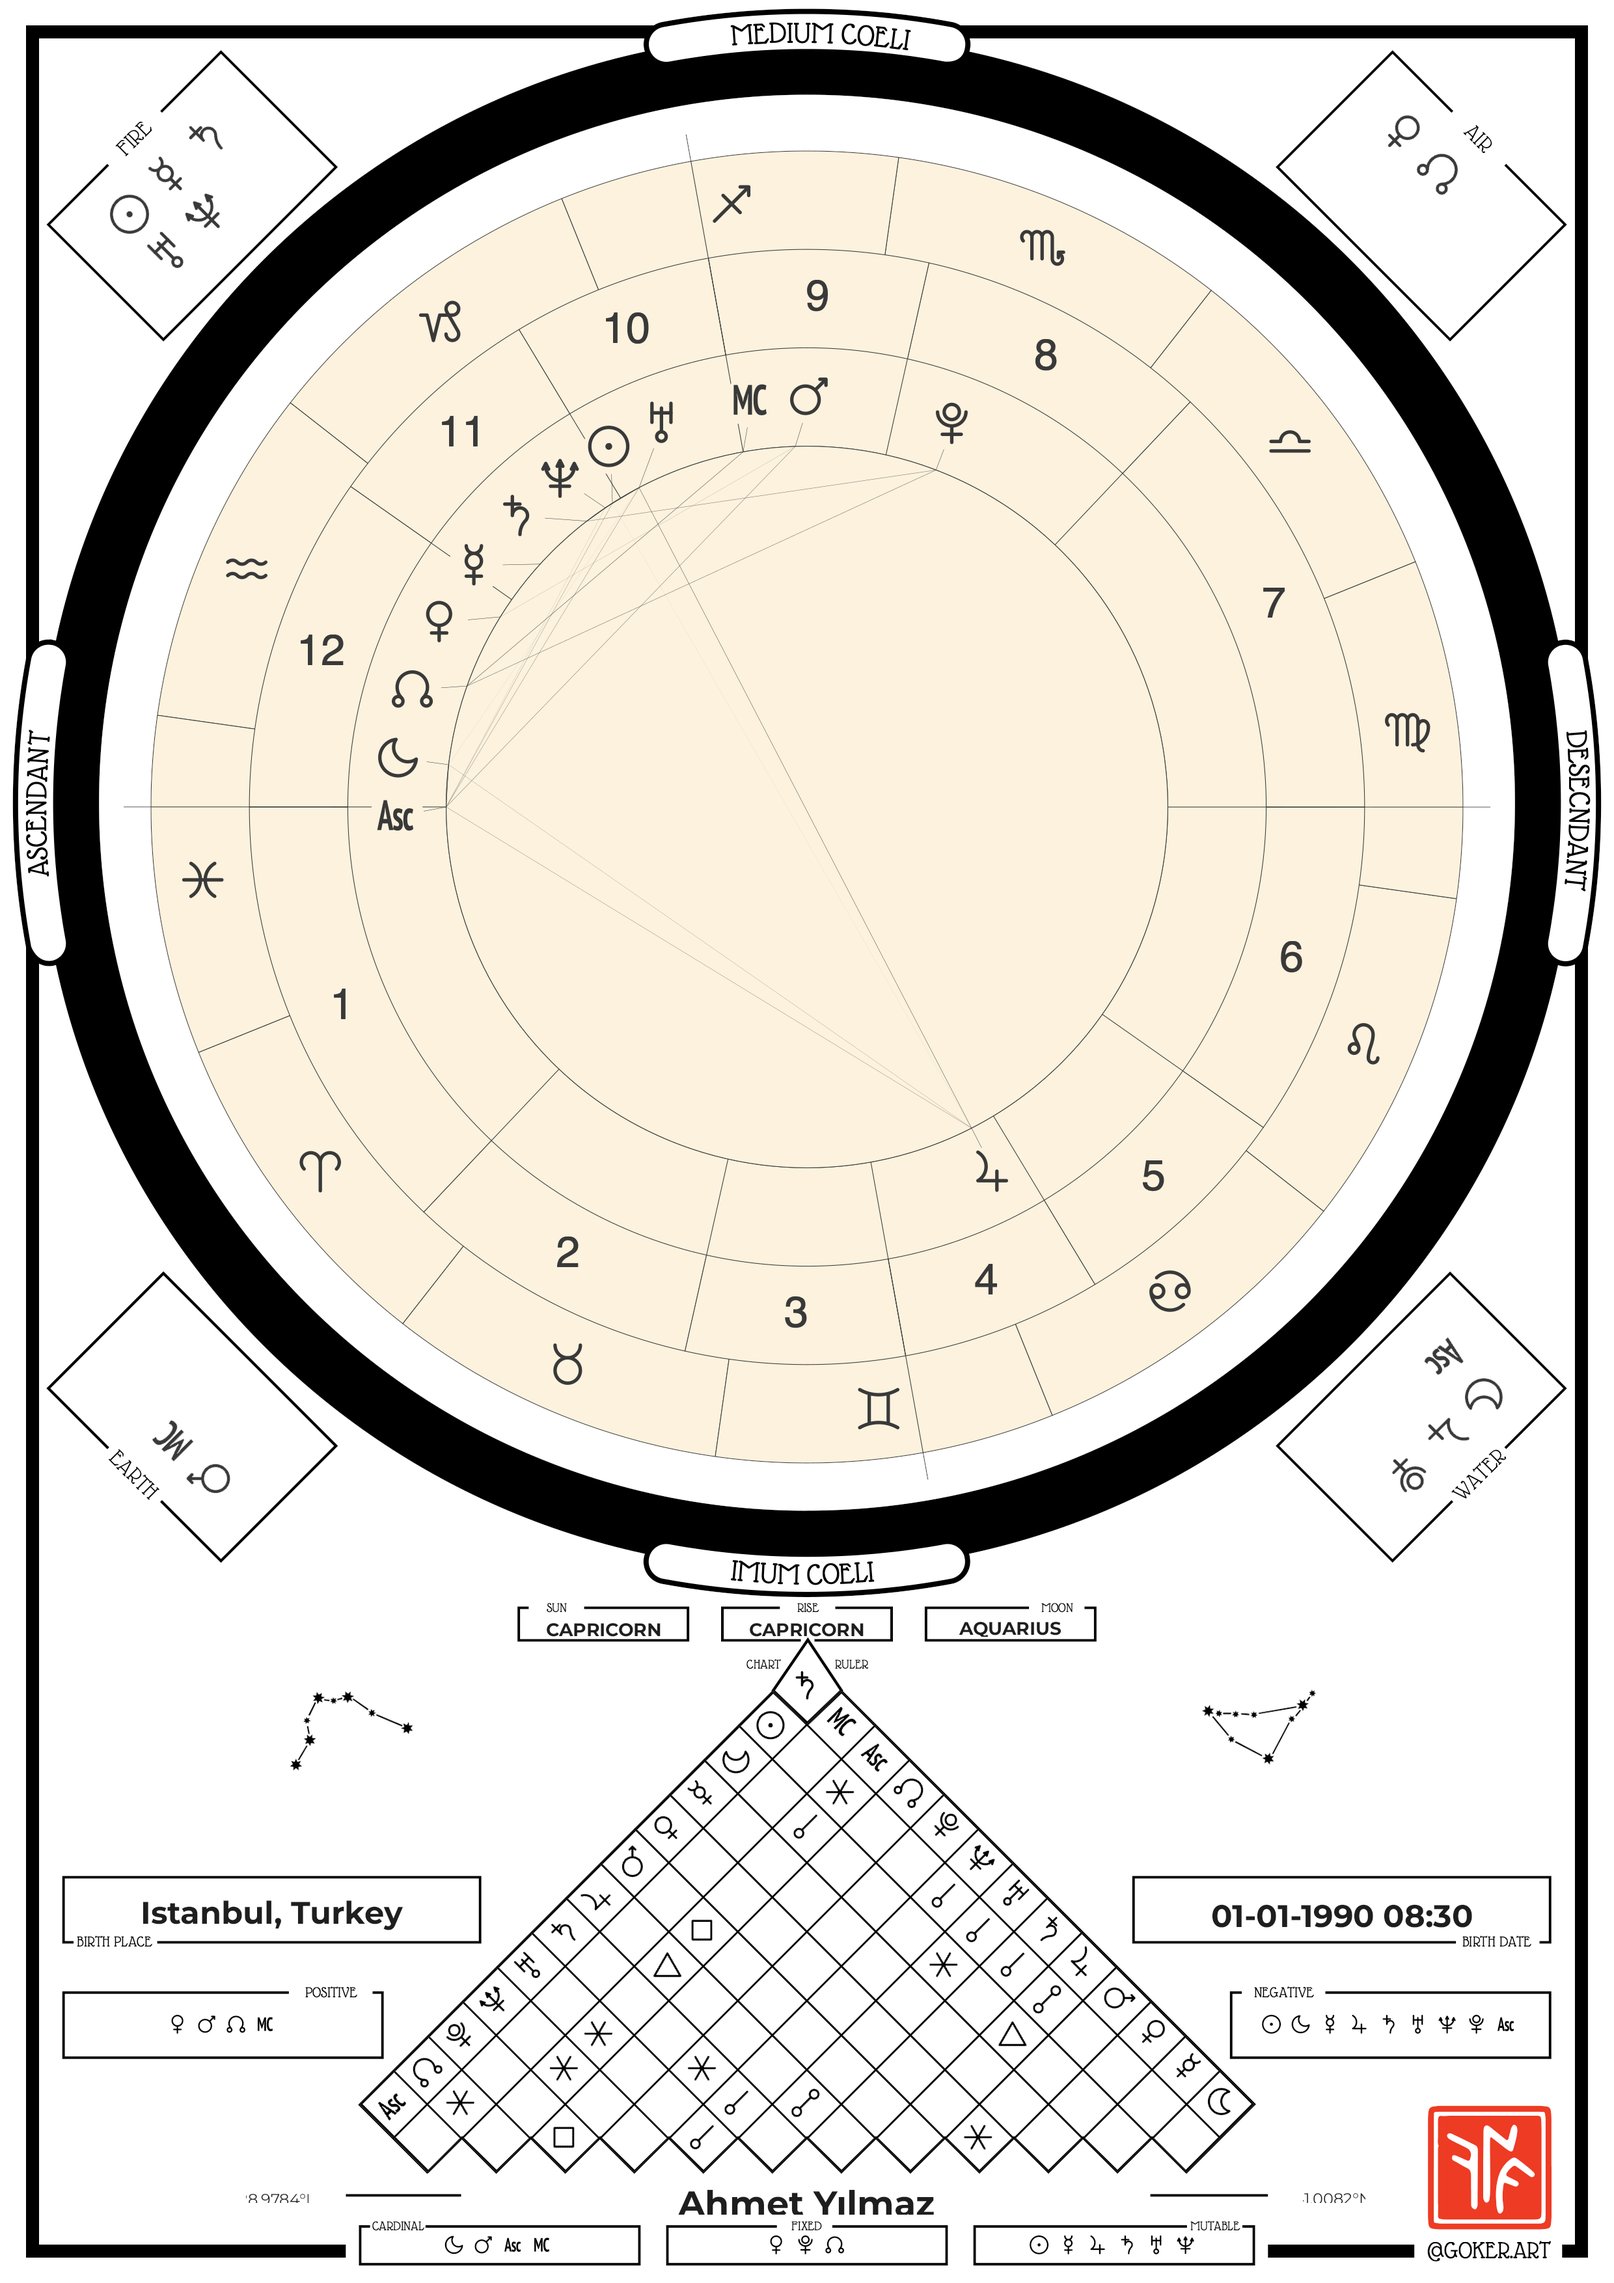
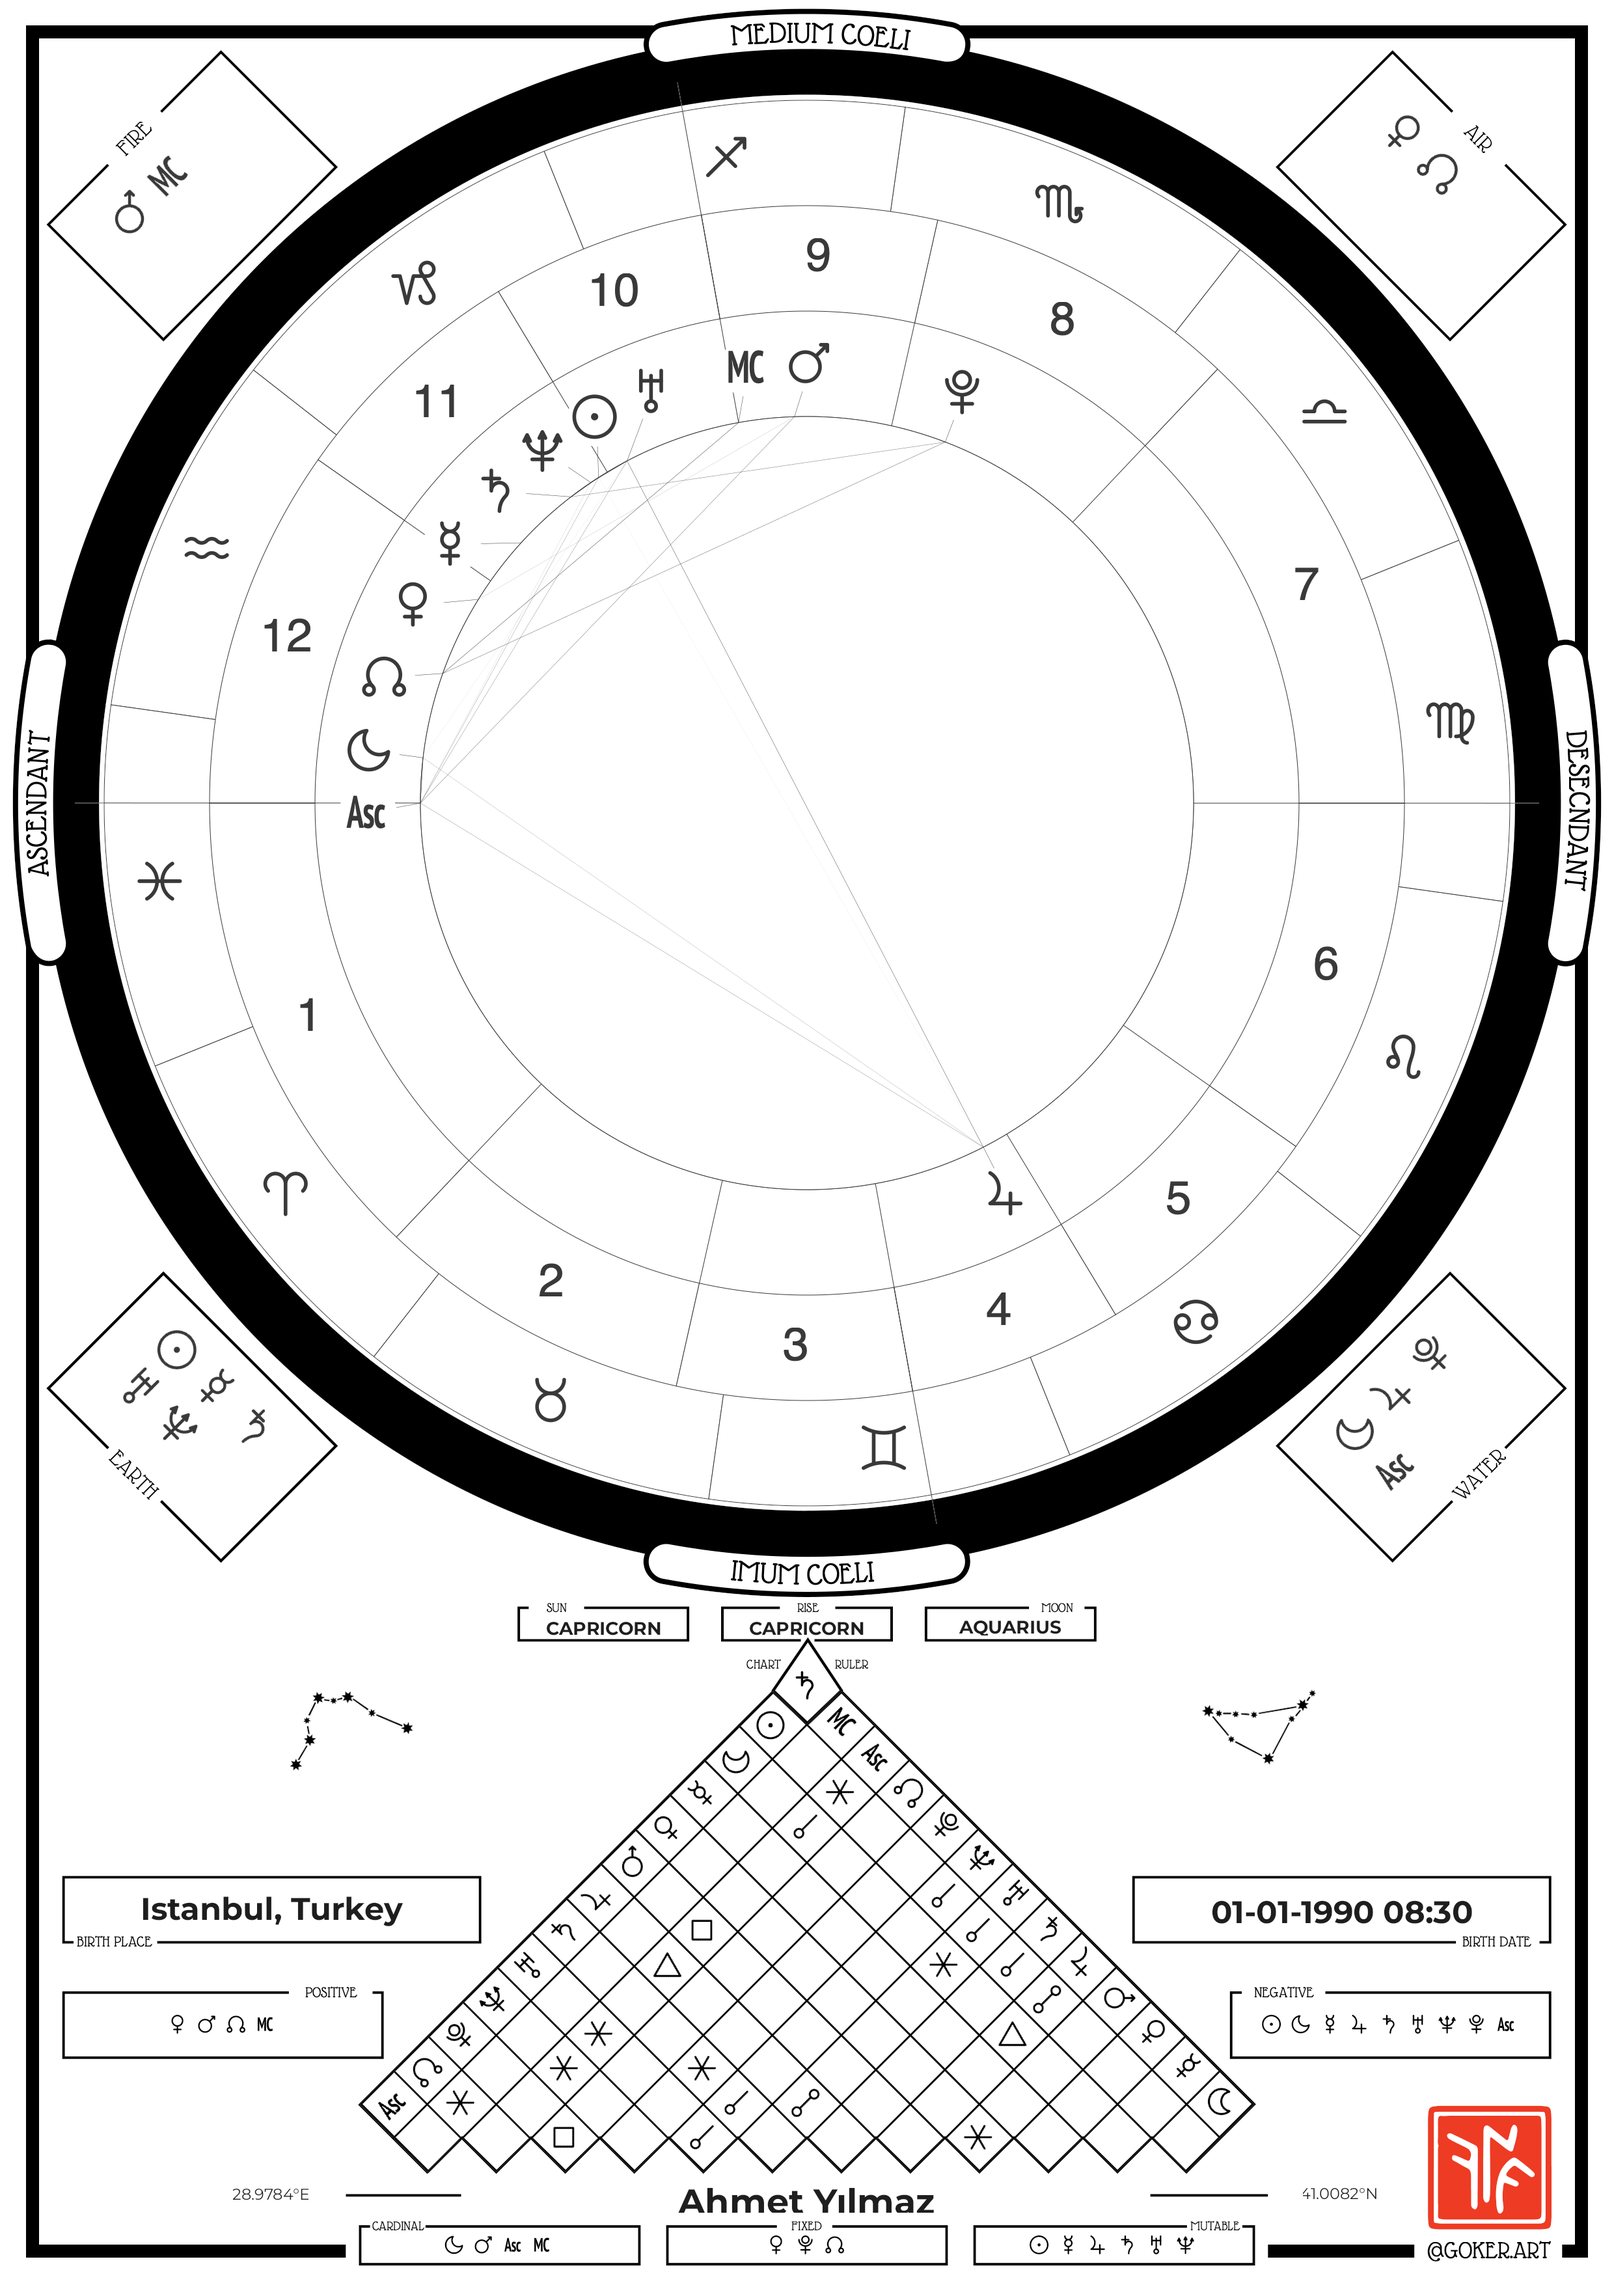
position fix

diff --git a/src/services/natal_chart_service.py b/src/services/natal_chart_service.py
@@ -407,32 +407,7 @@ class NatalChartService:
         cross_ref_data = stats.cross_ref
         grid = cross_ref_data.grid
         
-        # Create chart
-        chart = Chart(
-            data1=mimi,
-            # data2=transit,
-            width=2000
-        )
-        svg_str = chart.svg
-        
-        # Convert to PNG
-        chart_size = 2100
-        chart_png = cairosvg.svg2png(bytestring=svg_str.encode("utf-8"), output_width=chart_size, output_height=chart_size)
-        
-        # Create base chart image
-        chart_img = Image.open(BytesIO(chart_png)).convert("RGBA")
-        draw = ImageDraw.Draw(chart_img)
-        
-        # Calculate center position for aspect matrix
-        # w, h = chart_img.size
-        # center_x = w // 2
-        # center_y = h // 2
-        
-        
-        # Convert back to PNG for further processing
-        chart_buf = BytesIO()
-        chart_img.save(chart_buf, format="PNG")
-        chart_png = chart_buf.getvalue()
+
         
         # Create canvas
         a3_width, a3_height = 2480, 3508
@@ -447,7 +422,6 @@ class NatalChartService:
         # bbox = ImageDraw.Draw(canvas).textbbox((0, 0), f"{lat:.4f}, {lon:.4f}", font=font)
         # h_latlon = bbox[3] - bbox[1]
         # chart_y = coord_y + h_latlon + 60
-        canvas.paste(chart_img, (190, 190), chart_img)
 
         svg_paths_dir = os.path.join(assets_path, 'svg_paths')
 
@@ -473,32 +447,62 @@ class NatalChartService:
         draw = ImageDraw.Draw(canvas)
         
         
+        if 'chart' in rects:
+            chart_size = 2250
+            info = rects['chart']
+            # Create chart
+            chart = Chart(
+                data1=mimi,
+                # data2=transit,
+                width=chart_size
+            )
+            svg_str = chart.svg
+            chart_png = cairosvg.svg2png(bytestring=svg_str.encode("utf-8"), output_width=chart_size, output_height=chart_size)
+            
+            # Create base chart image
+            chart_img = Image.open(BytesIO(chart_png)).convert("RGBA")
+            draw = ImageDraw.Draw(chart_img)
+            
+            # Convert back to PNG for further processing
+            chart_buf = BytesIO()
+            chart_img.save(chart_buf, format="PNG")
+            chart_png = chart_buf.getvalue()
+            canvas.paste(chart_img, (int(info['center_x'] - chart_size/2), int(info['center_y'] - chart_size/2)), chart_img)
+        
         if 'aspect' in rects:
             info = rects['aspect']
             # Draw the aspect matrix in the center
-            print('INFO', info)
             AspectMatrixService.draw_aspect_matrix(ImageDraw.Draw(canvas), grid, info['center_x'], info['center_y'], svg_paths_dir)
 
         # Draw each text element individually
         if 'birth-place' in rects:
             info = rects['birth-place']
             rotated, pos = NatalChartService._draw_rotated_text(
-                draw, user_info["Place of Birth"], 
-                info['center_x'] - info['width']/2,
-                info['center_y'] - info['height']/2,
-                info['width'], info['height'], info['rotation'], font, text_color
+                draw=ImageDraw.Draw(canvas), 
+                text=user_info["Place of Birth"], 
+                x=info['center_x'] - info['width']/2,
+                y=info['center_y'] - info['height']/2,
+                width=info['width'], 
+                height=info['height'], 
+                angle=info['rotation'], 
+                font=font, 
+                fill=text_color
             )
             if rotated is not None:
                 canvas.paste(rotated, pos, rotated)
 
-       
         if 'birth-date' in rects:
             info = rects['birth-date']
             rotated, pos = NatalChartService._draw_rotated_text(
-                draw, date_str,
-                info['center_x'] - info['width']/2,
-                info['center_y'] - info['height']/2,
-                info['width'], info['height'], info['rotation'], font, text_color
+                draw=ImageDraw.Draw(canvas),
+                text=date_str,
+                x=info['center_x'] - info['width']/2,
+                y=info['center_y'] - info['height']/2,
+                width=info['width'],
+                height=info['height'],
+                angle=info['rotation'],
+                font=font,
+                fill=text_color
             )
             if rotated is not None:
                 canvas.paste(rotated, pos, rotated)
@@ -508,10 +512,15 @@ class NatalChartService:
         if 'moon-sign' in rects:
             info = rects['moon-sign']
             rotated, pos = NatalChartService._draw_rotated_text(
-                draw, moon_sign.upper(),
-                info['center_x'] - info['width']/2,
-                info['center_y'] - info['height']/2,
-                info['width'], info['height'], 0, font, text_color
+                draw=ImageDraw.Draw(canvas),
+                text=moon_sign.upper(),
+                x=info['center_x'] - info['width']/2,
+                y=info['center_y'] - info['height']/2,
+                width=info['width'],
+                height=info['height'],
+                angle=0,
+                font=font,
+                fill=text_color
             )
             if rotated is not None:
                 canvas.paste(rotated, pos, rotated)
@@ -519,10 +528,15 @@ class NatalChartService:
         if 'rise-sign' in rects:
             info = rects['rise-sign']
             rotated, pos = NatalChartService._draw_rotated_text(
-                draw, ascendant_sign.upper(),
-                info['center_x'] - info['width']/2,
-                info['center_y'] - info['height']/2,
-                info['width'], info['height'], 0, font, text_color
+                draw=ImageDraw.Draw(canvas),
+                text=ascendant_sign.upper(),
+                x=info['center_x'] - info['width']/2,
+                y=info['center_y'] - info['height']/2,
+                width=info['width'],
+                height=info['height'],
+                angle=0,
+                font=font,
+                fill=text_color
             )
             if rotated is not None:
                 canvas.paste(rotated, pos, rotated)
@@ -530,10 +544,15 @@ class NatalChartService:
         if 'sun-sign' in rects:
             info = rects['sun-sign']
             rotated, pos = NatalChartService._draw_rotated_text(
-                draw, sun_sign.upper(),
-                info['center_x'] - info['width']/2,
-                info['center_y'] - info['height']/2,
-                info['width'], info['height'], 0, font, text_color
+                draw=ImageDraw.Draw(canvas),
+                text=sun_sign.upper(),
+                x=info['center_x'] - info['width']/2,
+                y=info['center_y'] - info['height']/2,
+                width=info['width'],
+                height=info['height'],
+                angle=0,
+                font=font,
+                fill=text_color
             )
             if rotated is not None:
                 canvas.paste(rotated, pos, rotated)
@@ -541,7 +560,7 @@ class NatalChartService:
         if 'chart-ruler' in rects:
             info = rects['chart-ruler']
             DistributionService._draw_icon(
-                draw=draw,
+                draw=ImageDraw.Draw(canvas),
                 name=chart_ruler,
                 x=int(info['center_x'] - info['width']/2),
                 y=int(info['center_y'] - info['height']/2),
@@ -552,27 +571,30 @@ class NatalChartService:
             
         # Draw element distribution
         ElementDistributionService.draw_element_distribution(
-            draw=draw,
+            draw=ImageDraw.Draw(canvas),
             stats=stats,
             svg_paths_dir=svg_paths_dir,
             rects=rects
         )
 
- 
-        
         font = ImageFont.truetype(font_family_bold, 54)
         if 'name' in rects:
             info = rects['name']
             rotated, pos = NatalChartService._draw_rotated_text(
-                draw, user_name, 
-                info['center_x'] - info['width']/2, 
-                info['center_y'] - info['height']/2,
-                info['width'], info['height'], 0, font, text_color
+                draw=ImageDraw.Draw(canvas),
+                text=user_name, 
+                x=info['center_x'] - info['width']/2, 
+                y=info['center_y'] - info['height']/2,
+                width=info['width'],
+                height=info['height'],
+                angle=0,
+                font=font,
+                fill=text_color
             )
             if rotated is not None:
                 canvas.paste(rotated, pos, rotated)
             
-         # Draw location from stats basic info
+        # Draw location from stats basic info
         font = ImageFont.truetype(font_family_regular, 24)
         basic_info = stats.basic_info
         north, east = basic_info.grid[1][1].split(' ')
@@ -580,10 +602,15 @@ class NatalChartService:
         if 'north' in rects and basic_info:
             info = rects['north']
             rotated, pos = NatalChartService._draw_rotated_text(
-                draw, north,
-                info['center_x'] - info['width']/2,
-                info['center_y'] - info['height']/2,
-                info['width'], info['height'], 0, font, text_color
+                draw=ImageDraw.Draw(canvas),
+                text=north,
+                x=info['center_x'] - info['width']/2,
+                y=info['center_y'] - info['height']/2,
+                width=info['width'],
+                height=info['height'],
+                angle=0,
+                font=font,
+                fill=text_color
             )
             if rotated is not None:
                 canvas.paste(rotated, pos, rotated)
@@ -591,10 +618,15 @@ class NatalChartService:
         if 'east' in rects and basic_info:
             info = rects['east']
             rotated, pos = NatalChartService._draw_rotated_text(
-                draw, east,
-                info['center_x'] - info['width']/2,
-                info['center_y'] - info['height']/2,
-                info['width'], info['height'], 0, font, text_color
+                draw=ImageDraw.Draw(canvas),
+                text=east,
+                x=info['center_x'] - info['width']/2,
+                y=info['center_y'] - info['height']/2,
+                width=info['width'],
+                height=info['height'],
+                angle=0,
+                font=font,
+                fill=text_color
             )
             if rotated is not None:
                 canvas.paste(rotated, pos, rotated)
@@ -602,7 +634,7 @@ class NatalChartService:
         font = ImageFont.truetype(font_family_bold, 36)
         # Draw modality distribution
         DistributionService.draw_modality_distribution(
-            draw=draw,
+            draw=ImageDraw.Draw(canvas),
             stats=stats,
             rects=rects,
             svg_paths_dir=svg_paths_dir
@@ -610,7 +642,7 @@ class NatalChartService:
 
         # Draw polarity distribution
         DistributionService.draw_polarity_distribution(
-            draw=draw,
+            draw=ImageDraw.Draw(canvas),
             stats=stats,
             rects=rects,
             svg_paths_dir=svg_paths_dir

diff --git a/generate_natal_chart.py b/generate_natal_chart.py
@@ -39,10 +39,11 @@ def main():
         "Longitude": args.longitude
     }
     
+    # fcf2de
     try:
         # Generate the chart
         chart_service = NatalChartService()
-        chart_bytes = chart_service.generate_chart(user_info, template=args.template, background_color="#fcf2de")
+        chart_bytes = chart_service.generate_chart(user_info, template=args.template, background_color="#ffffff")
         
         # Save the chart
         with open(args.output, 'wb') as f:

diff --git a/src/services/element_distribution_service.py b/src/services/element_distribution_service.py
@@ -22,10 +22,10 @@ class ElementDistributionService:
     
     # Fixed rotation angles for each element
     ELEMENT_ROTATIONS = {
-        'earth': 45,
+        'earth': -45,
         'air': -45,
-        'water': -135,
-        'fire': 135
+        'water': 45,
+        'fire': 45
     }
 
     # Colors
